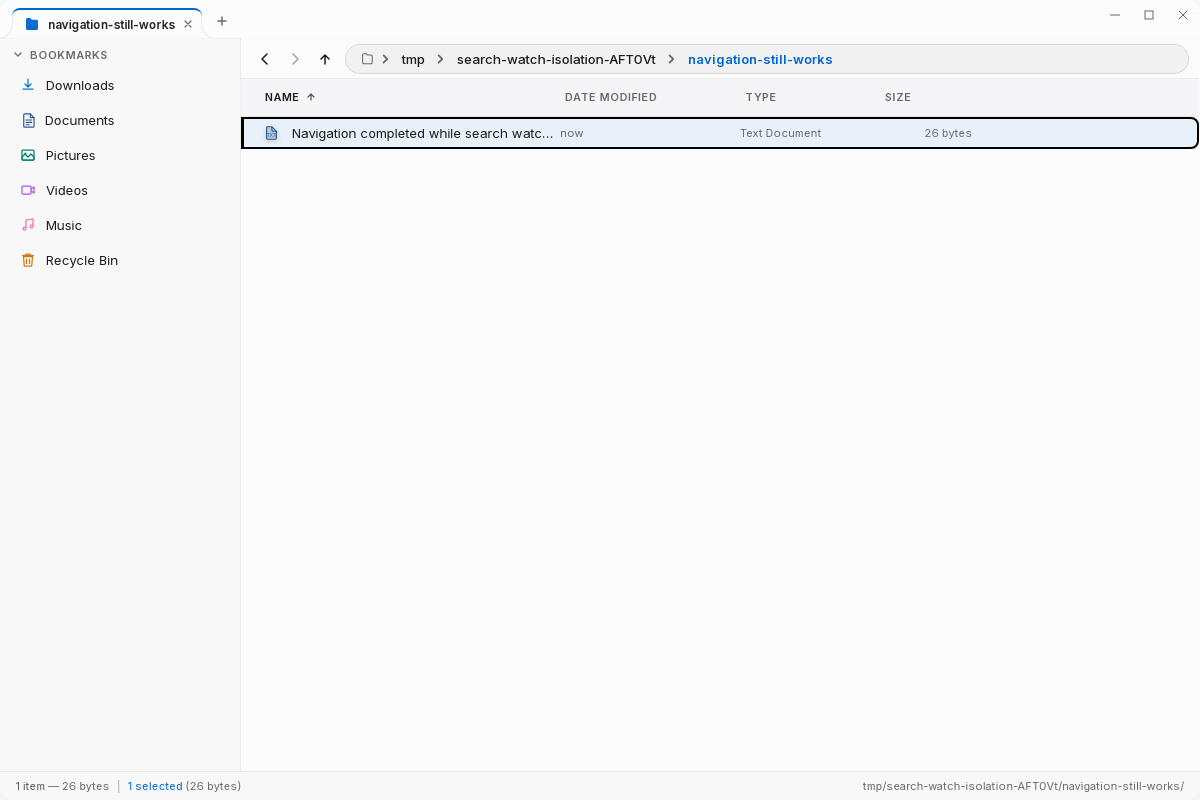
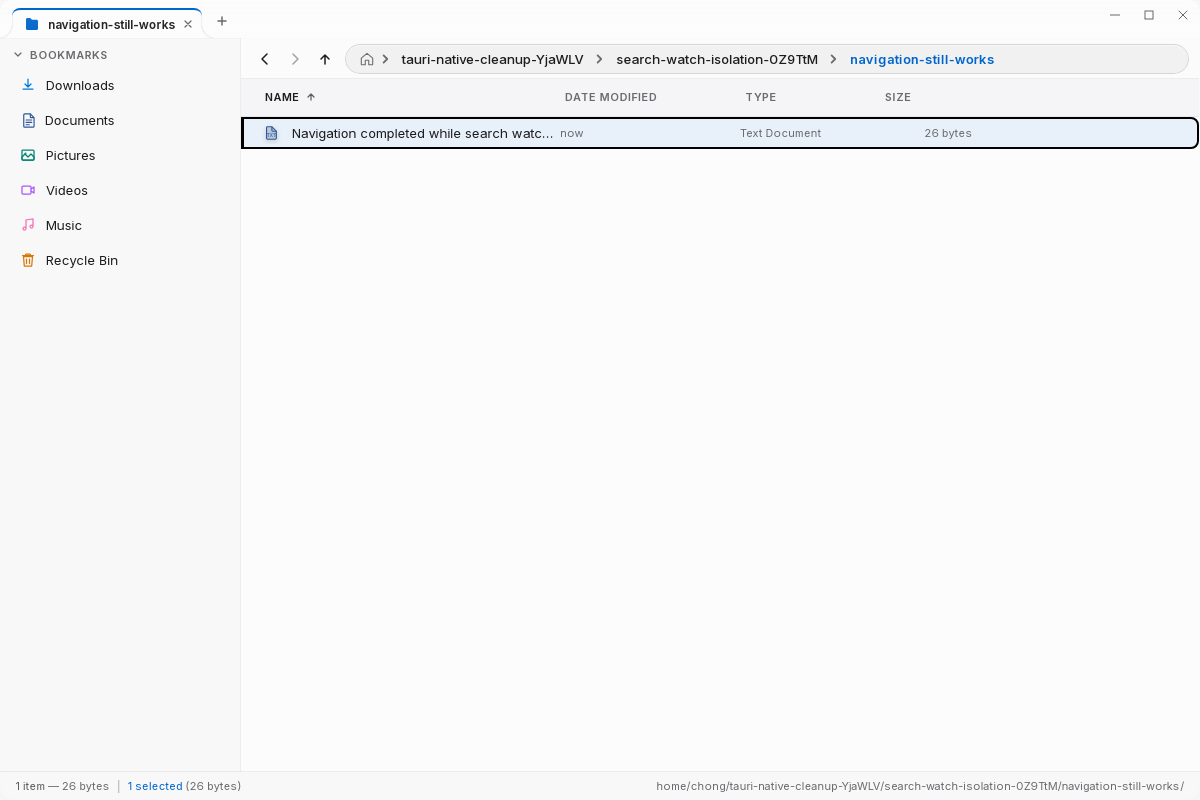
test: harden native watch-isolation gate and fixture lifetime

Changed region(s): [[0.3392, 0.0625, 0.8325, 0.0938], [0.555, 0.9688, 0.9867, 1.0]]

diff --git a/e2e-tauri/specs/search-watch-isolation.spec.ts b/e2e-tauri/specs/search-watch-isolation.spec.ts
@@ -3,12 +3,13 @@ import { browser, $, expect } from "@wdio/globals";
 import fs from "node:fs";
 import path from "node:path";
 import os from "node:os";
+import { createNativeFixtureDirectory } from "../native-qualification";
 import { navigateTo, entryPathSelector } from "./helpers";
 
 const gate = process.env.TAURI_EXPLORER_E2E_SEARCH_WATCH_GATE;
 (gate ? describe : describe.skip)("recursive search watch navigation isolation", () => {
   it("lists another folder before the blocked recursive registration is released", async () => {
-    const fixture = fs.mkdtempSync(path.join(os.tmpdir(), "search-watch-isolation-"));
+    const fixture = createNativeFixtureDirectory("search-watch-isolation-");
     const searchRoot = path.join(fixture, "search-root");
     const destination = path.join(fixture, "navigation-still-works");
     fs.mkdirSync(searchRoot);
@@ -17,6 +18,7 @@ const gate = process.env.TAURI_EXPLORER_E2E_SEARCH_WATCH_GATE;
     const marker = path.join(destination, "Navigation completed while search watch was blocked.txt");
     fs.writeFileSync(marker, "independent folder listing");
     const entered = gate!.replace(/\.[^/.]*$/, "") + ".entered";
+    const exited = gate!.replace(/\.[^/.]*$/, "") + ".exited";
     try {
       await navigateTo(searchRoot);
       await browser.keys(["Control", "p"]);
@@ -25,6 +27,7 @@ const gate = process.env.TAURI_EXPLORER_E2E_SEARCH_WATCH_GATE;
       await input.setValue("needle");
       await browser.waitUntil(() => fs.existsSync(entered), { timeout: 10_000, timeoutMsg: "recursive registration did not enter its native gate" });
       expect(fs.readFileSync(entered, "utf8")).toBe(searchRoot);
+      expect(fs.existsSync(exited)).toBe(false);
       await browser.keys("Escape");
       await $(".quick-open-dialog").waitForDisplayed({ reverse: true });
       const started = Date.now();
@@ -36,6 +39,7 @@ const gate = process.env.TAURI_EXPLORER_E2E_SEARCH_WATCH_GATE;
       const output = "screenshots/fix/1028-quick-find-watch-isolation";
       fs.mkdirSync(output, { recursive: true });
       await browser.saveScreenshot(path.join(output, "navigation-during-recursive-registration.png"));
+      expect(fs.existsSync(exited)).toBe(false);
       fs.writeFileSync(path.join(output, "native-result.json"), JSON.stringify({
         marker, elapsedMs, recursiveRegistrationRoot: searchRoot,
         registrationReleased: false, display: process.env.DISPLAY,
@@ -45,7 +49,7 @@ const gate = process.env.TAURI_EXPLORER_E2E_SEARCH_WATCH_GATE;
       // the cancelled search cannot outlive its fixture.
       fs.writeFileSync(gate!, "release");
       await navigateTo(os.tmpdir());
-      fs.rmSync(fixture, { recursive: true, force: true });
+      // Run-owned fixture cleanup waits for native app teardown.
     }
   });
 });

diff --git a/src-tauri/src/files/search_observation.rs b/src-tauri/src/files/search_observation.rs
@@ -203,4 +203,8 @@ fn wait_for_native_test_gate(path: &Path) {
     while !gate.exists() && Instant::now() < deadline {
         std::thread::sleep(Duration::from_millis(20));
     }
+    let _ = std::fs::write(
+        gate.with_extension("exited"),
+        if gate.exists() { "released" } else { "timeout" },
+    );
 }
